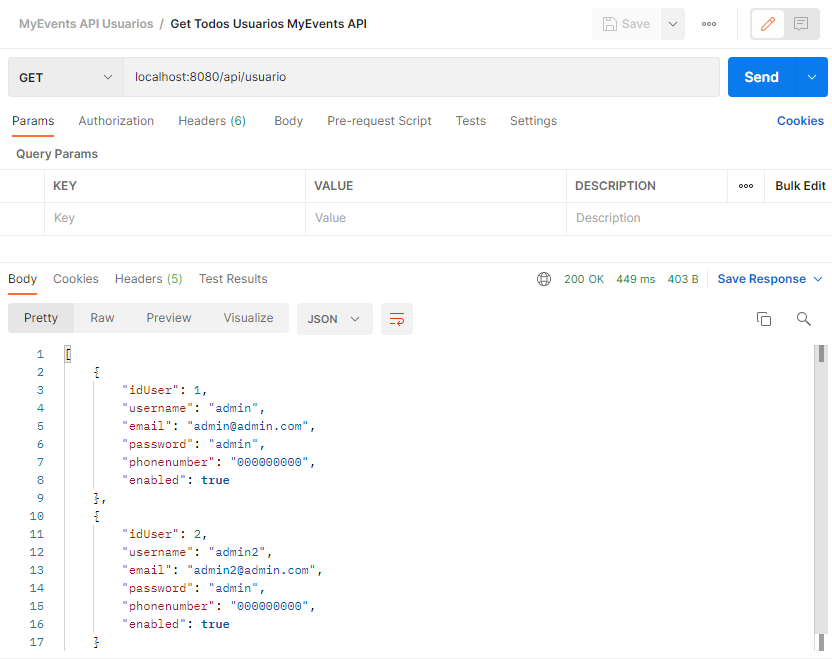
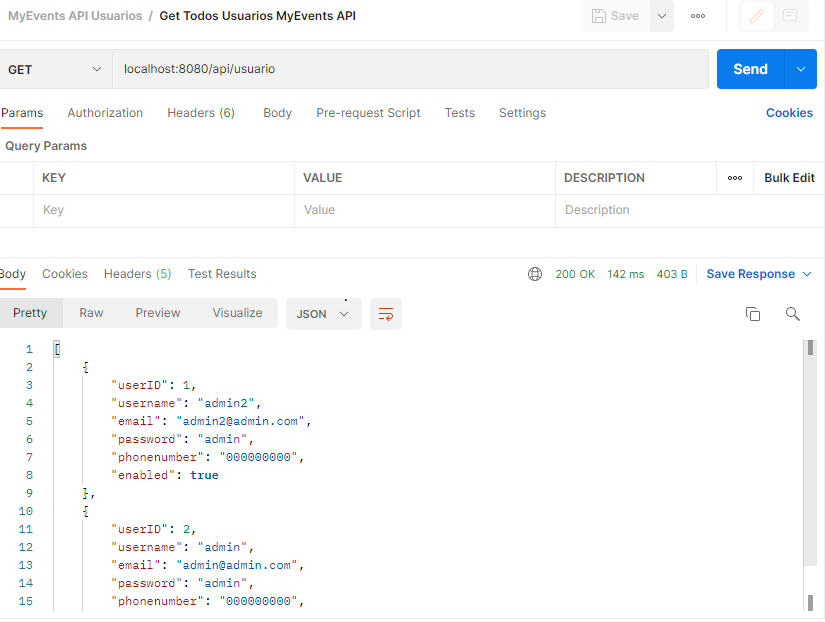
Actualizacion readme(Diagrama E/R y Api Rest)

diff --git a/src/main/java/com/marioparrillamaroto/serverEventos/entity/Evento.java b/src/main/java/com/marioparrillamaroto/serverEventos/entity/Evento.java
@@ -28,6 +28,9 @@ public class Evento implements Serializable{
 	@Column(nullable = false, length = 15)
 	private String eventName;
 	
+	@Column(nullable = false, length = 15)
+	private String tema;
+
 	@Column(nullable = false)
 	private LocalDateTime startTime;
 	
@@ -50,7 +53,6 @@ public class Evento implements Serializable{
 	@ManyToOne
 	private Usuario userOwner;
 	
-	@JoinColumn(nullable = false)
 	@ManyToOne
 	private Usuario userSummoner;
 
@@ -68,6 +70,14 @@ public class Evento implements Serializable{
 
 	public void setEventName(String eventName) {
 		this.eventName = eventName;
+	}
+	
+	public String getTema() {
+		return tema;
+	}
+
+	public void setTema(String tema) {
+		this.tema = tema;
 	}
 
 	public LocalDateTime getStartTime() {

diff --git a/src/main/java/com/marioparrillamaroto/serverEventos/entity/Usuario.java b/src/main/java/com/marioparrillamaroto/serverEventos/entity/Usuario.java
@@ -36,11 +36,11 @@ public class Usuario implements Serializable{
 	@Column(nullable = false)
 	private Boolean enabled;
 	
-	public Long getIdUser() {
-		return idUser;
+	public Long getUserID() {
+		return userID;
 	}
-	public void setIdUser(Long idUser) {
-		this.idUser = idUser;
+	public void setUserID(Long userID) {
+		this.userID = userID;
 	}
 	public String getUsername() {
 		return username;

diff --git a/README.md b/README.md
@@ -94,49 +94,47 @@ Esta página se mostrará cuando ocurra cualquier error con la página.
 
 ## API REST
 
-FALTA EXPLICAR LAS IMAGENES!!! CAMBIAR CAPTURAS USUARIO (CAMBIE EL NOMBRE DEL ID USUARIO)
-
 ### API REST -- USUARIOS
 
-Obtener todos los usuarios: 
+Obtener todos los usuarios: Usando el metodo GET, podremos obtener todos los datos de los usuarios desde la ruta /api/usuario
 
 ![GetTodosUsuarios](./readmeAssets/ApiRest/GetTodosUsuarios.png)
 
-Obtener un usuario: 
+Obtener un usuario: Usando el metodo GET, podremos obtener todos los datos de un usuario desde la ruta /api/usuario/{userID}
 
 ![GetUsuarioID](./readmeAssets/ApiRest/GetUsuarioID.png)
 
-Crear un usuario: 
+Crear un usuario: Usando el metodo POST, podremos crear un usuario desde la ruta /api/usuario con el body que se ve en la imagen. (Todos los valores del body son obligatorios NotNull)
 
 ![PostCrearUsuario](./readmeAssets/ApiRest/PostCrearUsuario.png)
 
-Modificar un usuario: 
+Modificar un usuario: Usando el metodo PUT, podremos modificar a un usuario desde la ruta /api/usuario/{userID} con el body indicado en la imagen. (Todos los valores del body son obligatorios NotNull)
 
 ![PutModificarUsuario](./readmeAssets/ApiRest/PutModificarUsuario.png)
 
-Eliminar un usuario: 
+Eliminar un usuario: Usando el metodo DELETE, podremos eliminar a un usuario desde la ruta /api/usuario/{userID}
 
 ![DeleteBorrarUsuario](./readmeAssets/ApiRest/DeleteBorrarUsuario.png)
 
 ### API REST -- EVENTOS
 
-Obtener todos los eventos: 
+Obtener todos los eventos: Usando el metodo GET, podremos obtener todos datos de los eventos desde la ruta /api/evento
 
 ![GetTodosEventos](./readmeAssets/ApiRest/GetTodosEventos.png)
 
-Obtener un evento: 
+Obtener un evento: Usando el metodo GET, podremos obtener todos los datos de un evento desde la ruta /api/evento/{eventID}
 
 ![GetEventoID](./readmeAssets/ApiRest/GetEventoID.png)
 
-Crear un evento: 
+Crear un evento: Usando el metodo POST, podremos crear un evento desde la ruta /api/evento con el body que se ve en la imagen. (Todos los valores del body son obligatorios NotNull)
 
 ![PostCrearEvento](./readmeAssets/ApiRest/PostCrearEvento.png)
 
-Modificar un evento: 
+Modificar un evento: Usando el metodo PUT, podremos modificar un evento desde la ruta /api/evento/{userID} con el body indicado en la imagen. (Todos los valores del body son obligatorios NotNull)
 
 ![PutModificarEvento](./readmeAssets/ApiRest/PutModificarEvento.png)
 
-Eliminar un evento: 
+Eliminar un evento: Usando el metodo DELETE, podremos eliminar un evento desde la ruta /api/evento/{eventID}
 
 ![DeleteBorrarEvento](./readmeAssets/ApiRest/DeleteBorrarEvento.png)
 
@@ -209,7 +207,43 @@ Se debe incluir un diagrama de clases, la descripción de las mismas.
 
 ## Diagrama E/R
 
-Describe las tablas de la base de datos local!!!
+### TABLA -- USUARIO
+
+Todos los datos de esta tabla son Not Null, no pueden ser nulos
+
+userID: Es la clave principal de la tabla, que será el identificador del usuario, que es de tipo bigint.
+
+username: Es el nombre de usuario, que es de tipo varchar.
+
+email: Es el correo electronico del usuario, que es de tipo varchar.
+
+password: Es la contraseña del usuario, que es de tipo varchar.
+
+phonenumber: Es el numero de telefono del usuario, que es de tipo varchar.
+
+enabled: Nos servirá para saber si el usuario puede utilizarse o no, que es de tipo bit que en verdad es un boolean.
+
+### TABLA -- EVENTO
+
+eventID: Es la clave principal de la tabla, que será el identificador del evento, que es de tipo bigint. NotNull.
+
+username: Es el nombre de evento, que es de tipo varchar. NotNull.
+
+start_time: Es la fecha y hora del inicio del evento, que es de tipo Datetime. NotNull.
+
+end_time: Es la fecha y hora de final del evento, que es de tipo Datetime. NotNull.
+
+event_preference: Con este dato, segun su valor, si es 0 será un evento presencial y si no, será un evento meeting y con esto trabajaremos con diferentes datos según este valor, es de tipo bit, que en realidad es un boolean. NotNull.
+
+coordinates: Son las coordenadas de la localizacion del lugar de quedada del evento, es de tipo varchar.
+
+videomeeting: Es el enlace de la videoconferencia del evento, es de tipo varchar.
+
+available: Con este dato sabremos si el evento esta activado o no según su valor (0 = desahabilitado / 1 = habilitado), es de tipo bit, pero en realidad es de tipo boolean. NotNull.
+
+user_owner_id_user: es la id del usuario que ha creado el evento, es de tipo bigint. NotNull.
+
+user_summoner_id_user: es la id del usuario que ha citado al creador el evento, es de tipo bigint.
 
 ![entidadRealacion](./readmeAssets/Diagramas/entidadRelacion.png)
 
